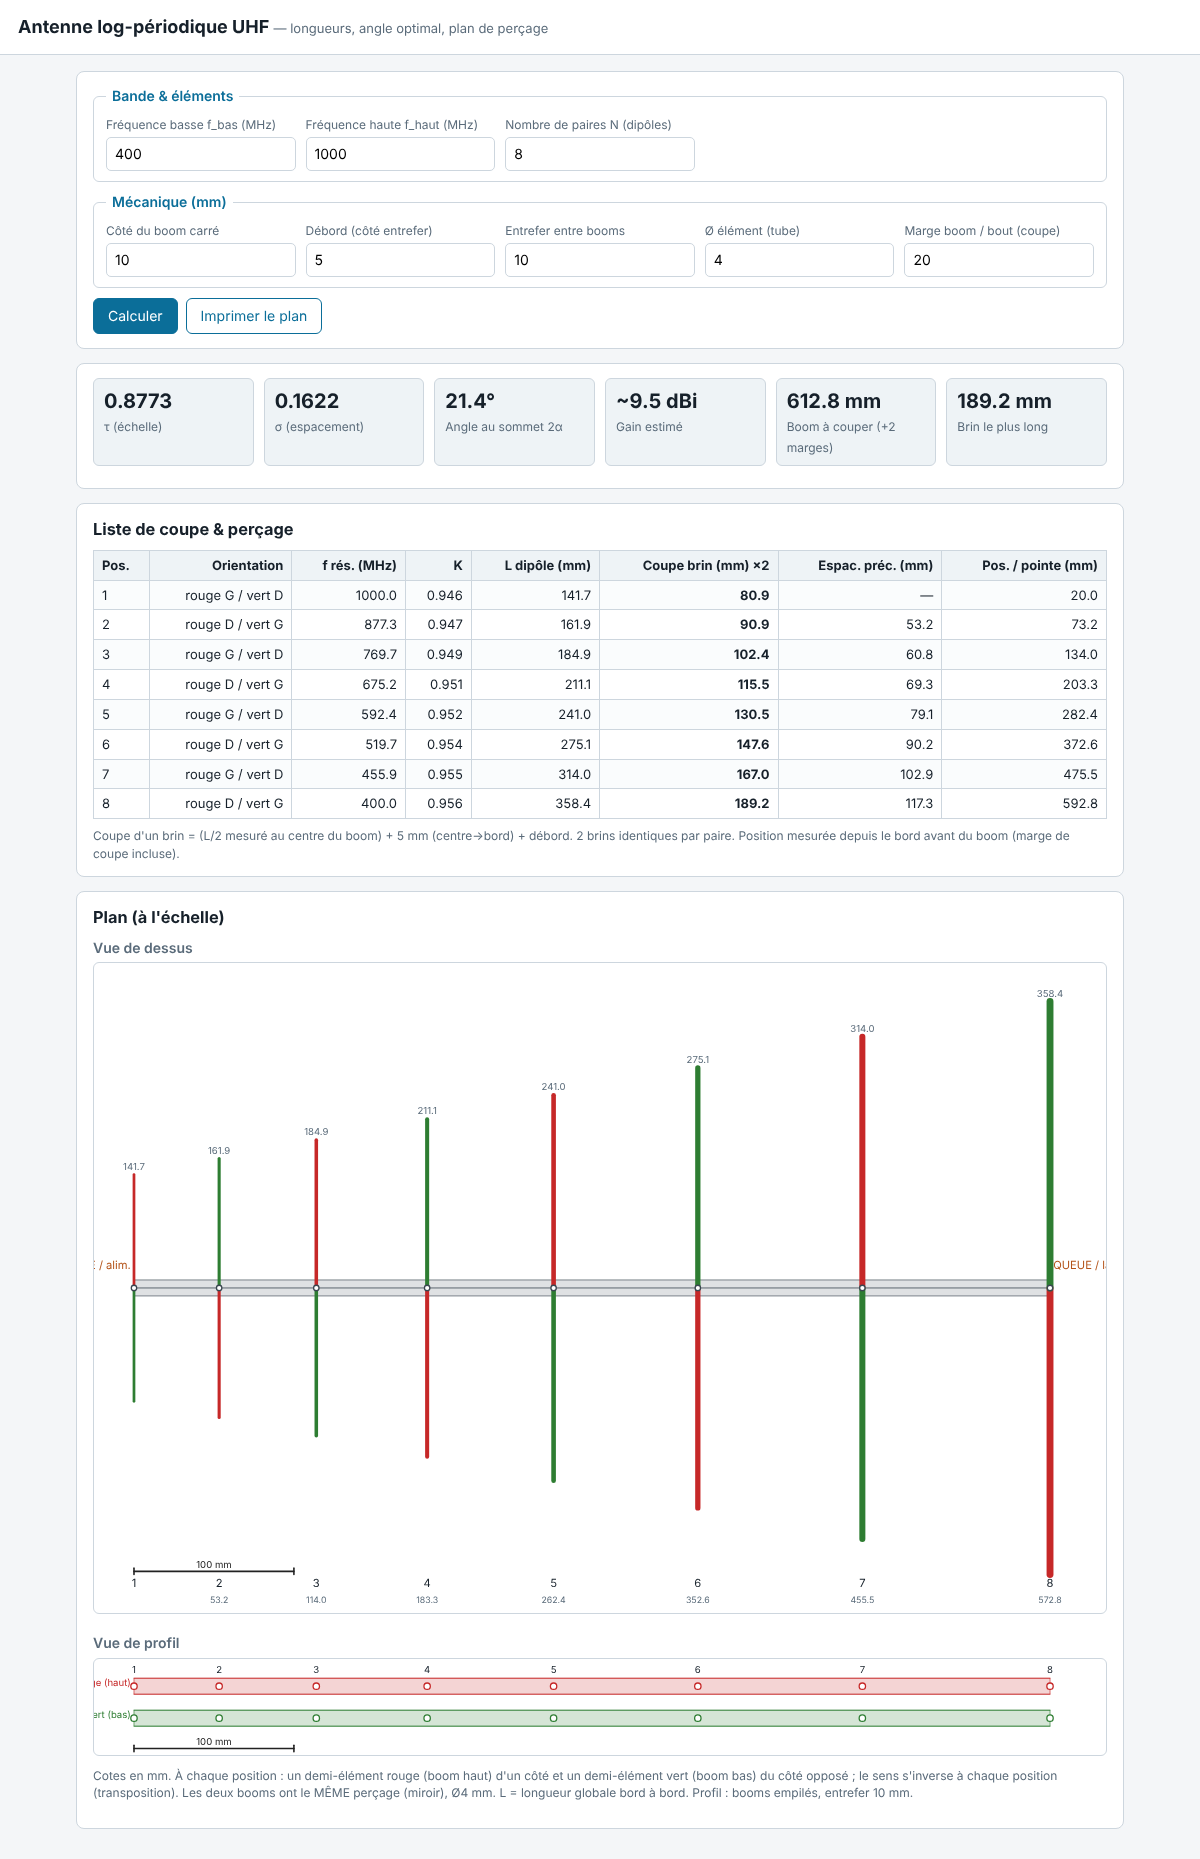
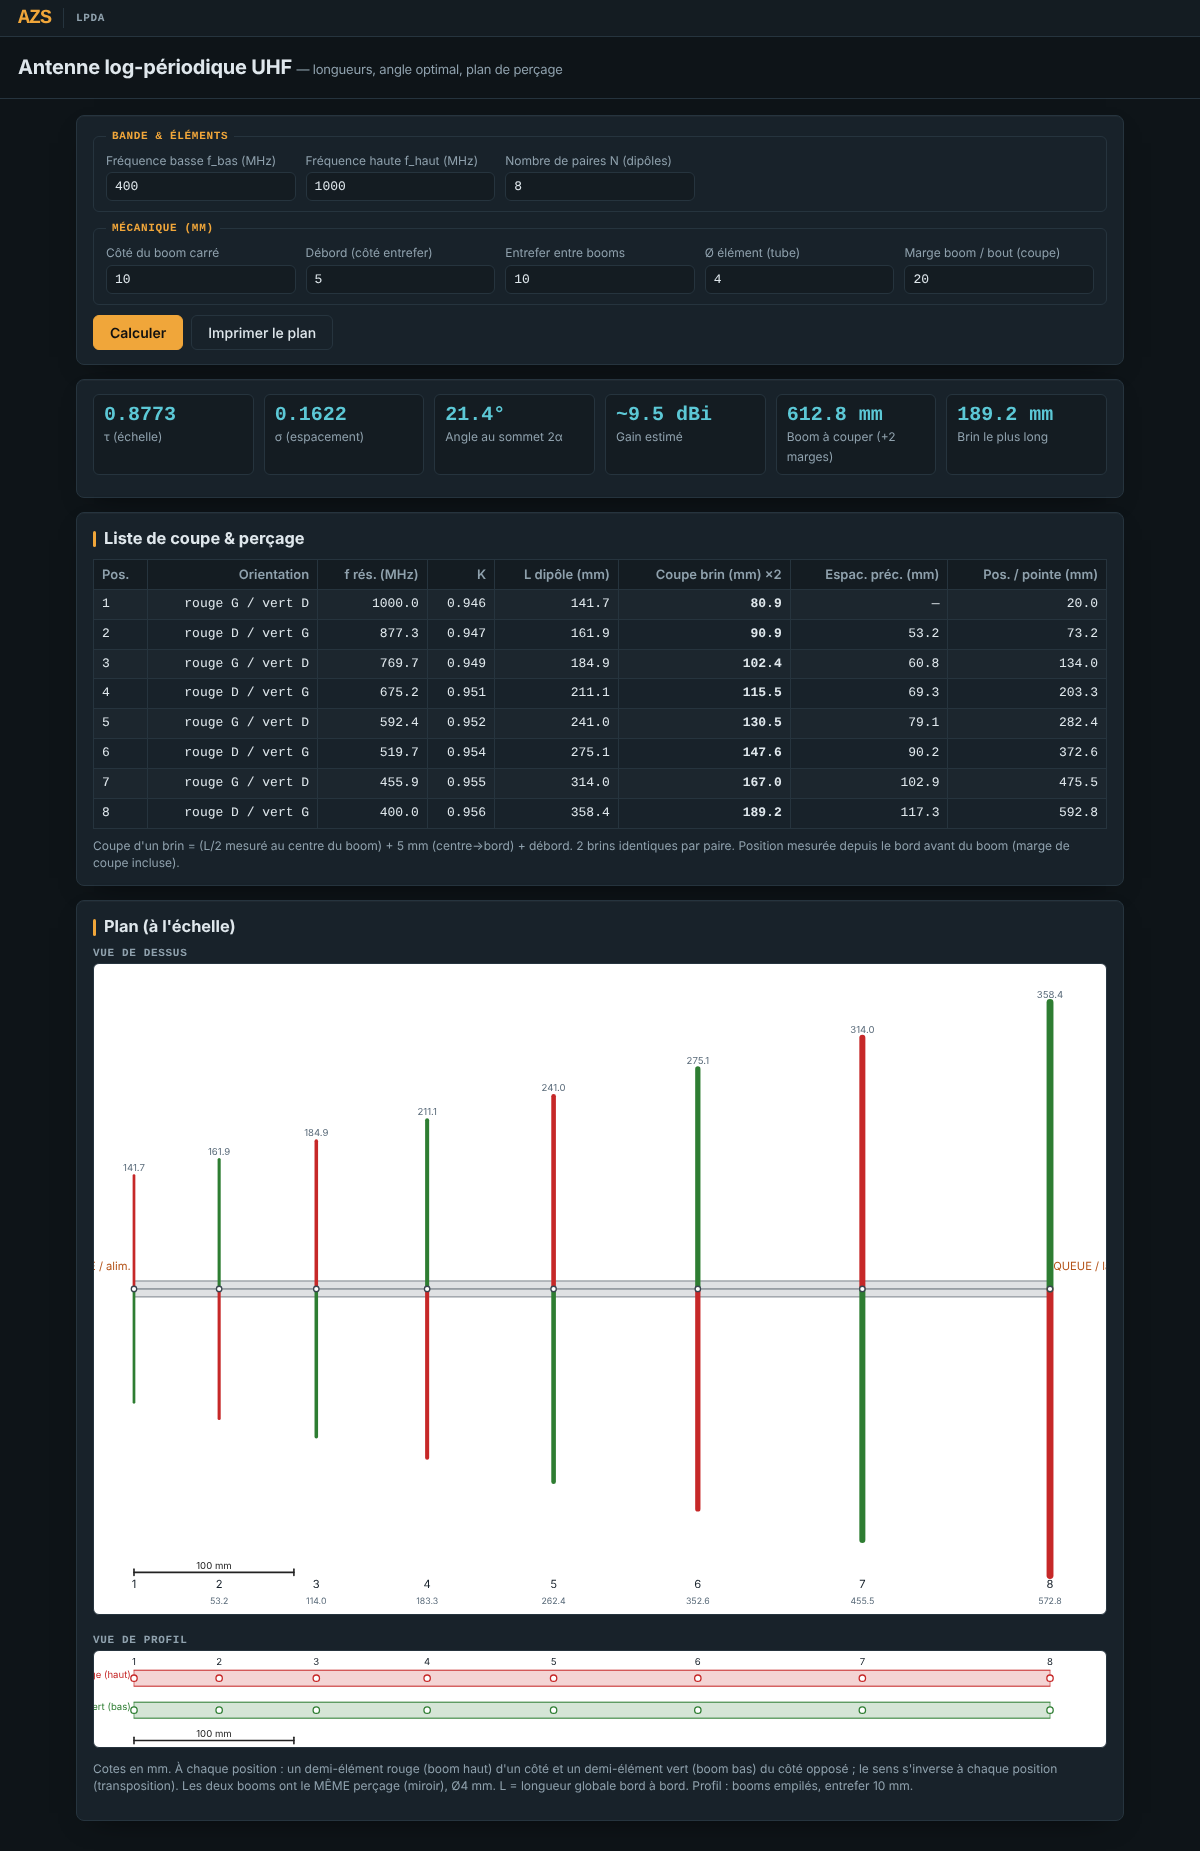
Charte graphique AZS (v1.6)
Thème sombre à l'écran (palette ardoise / ambre / cyan, bandeau AZS avec
lien de retour vers www.azs.fr, chiffres en monospace) ; le plan reste
un dessin technique sur fond blanc avec ses couleurs d'origine et
l'impression garde le rendu clair. README / LISEZMOI et capture à jour.

Claude-Session: https://claude.ai/code/session_018DEShnQbFmf7n67u3FoFwU

diff --git a/lpda_uhf.html b/lpda_uhf.html
@@ -6,9 +6,14 @@
              - angle optimal (gain max, Carrel)
              - positions de percage / plan pret a couper et percer
    Auteur  : Eric Perret (ericperret)
-   Date    : 2026-05-30
-   Version : 1.5  (gain estimé = montée saturante en N, plafond ~11 dBi atteint tôt)
-   Note    : 100% HTML/CSS/JS, aucune dependance, aucun lien externe.
+   Date    : 2026-10-18
+   Version : 1.6
+   Note    : 100% HTML/CSS/JS, aucune dependance, aucune ressource externe
+             (seul lien : retour vers www.azs.fr).
+   Histo.  : 1.5 2026-05-30 gain estimé = montée saturante en N, plafond
+             ~11 dBi atteint tôt ; 1.6 2026-10-18 charte graphique AZS
+             (thème sombre à l'écran, plan conservé sur fond blanc,
+             impression inchangée, bandeau AZS)
    Licence : CC BY 4.0
    ============================================================ -->
 <html lang="fr">
@@ -17,54 +22,72 @@
 <meta name="viewport" content="width=device-width, initial-scale=1">
 <title>LPDA UHF — calcul & plan</title>
 <style>
+  /* ---------- charte AZS (www.azs.fr) ---------- */
   :root{
-    --bg:#f4f6f8; --pan:#ffffff; --ink:#16202a; --mut:#5a6b7a;
-    --line:#cdd6de; --acc:#0b6e99; --acc2:#b4541a; --ok:#1f7a3d; --warn:#a02020;
+    --bg:#0e1418; --pan:#18222a; --pan2:#141c22; --ink:#dfe7ec; --mut:#8fa1ad;
+    --line:#26343e; --acc:#f0a63a; --acc2:#5cc8d6; --ok:#3fb950; --warn:#f85149;
     --boom:#3a4650; --elem:#0b6e99;
     --red:#c62828; --green:#2e7d32;
+    --mono:ui-monospace,"SFMono-Regular",Menlo,Consolas,"Liberation Mono",monospace; --sans:system-ui,-apple-system,"Segoe UI",Roboto,"Helvetica Neue",Arial,sans-serif;
+    color-scheme:dark;
   }
   *{box-sizing:border-box}
-  body{margin:0;background:var(--bg);color:var(--ink);
-    font:14px/1.45 system-ui,-apple-system,Segoe UI,Roboto,Arial,sans-serif}
-  header{padding:14px 18px;border-bottom:1px solid var(--line);background:var(--pan)}
-  h1{margin:0;font-size:18px}
+  body{margin:0;background:var(--bg);color:var(--ink);font:14px/1.45 var(--sans)}
+  .azs-barre{display:flex;align-items:center;gap:12px;padding:8px 18px;background:var(--pan2);border-bottom:1px solid var(--line);
+    font:600 11px/1 var(--mono);letter-spacing:.06em;text-transform:uppercase;color:var(--mut)}
+  .azs-barre .azs{font:800 20px/1 var(--mono);letter-spacing:-1px;text-transform:none;color:var(--acc);text-decoration:none;padding-right:12px;border-right:1px solid var(--line)}
+  .azs-barre .azs:hover{color:#ffcf7a}
+  .azs-barre a.fil{color:var(--mut);text-decoration:none} .azs-barre a.fil:hover{color:var(--acc)}
+  header{padding:16px 18px;border-bottom:1px solid var(--line)}
+  h1{margin:0;font-size:20px;letter-spacing:-.2px}
   h1 small{color:var(--mut);font-weight:400;font-size:13px}
   main{max-width:1080px;margin:0 auto;padding:16px}
   .panel{background:var(--pan);border:1px solid var(--line);border-radius:8px;
-    padding:14px 16px;margin-bottom:14px}
+    padding:14px 16px;margin-bottom:14px;box-shadow:0 1px 0 rgba(255,255,255,.03) inset,0 10px 30px -18px rgba(0,0,0,.8)}
+  .panel h3{display:flex;align-items:center;gap:8px}
+  .panel h3::before{content:"";width:3px;height:1em;border-radius:2px;background:var(--acc);flex:none}
+  .panel h4{font:600 11px var(--mono)!important;letter-spacing:.06em;text-transform:uppercase}
   fieldset{border:1px solid var(--line);border-radius:6px;margin:0 0 10px;padding:10px 12px}
-  legend{color:var(--acc);font-weight:600;padding:0 6px}
+  legend{color:var(--acc);font:600 11px var(--mono);letter-spacing:.06em;text-transform:uppercase;padding:0 6px}
   .grid{display:grid;grid-template-columns:repeat(auto-fill,minmax(180px,1fr));gap:10px}
   label{display:block;font-size:12px;color:var(--mut);margin-bottom:3px}
-  input{width:100%;padding:6px 8px;border:1px solid var(--line);border-radius:5px;
-    font:inherit;background:#fff}
-  input:focus{outline:2px solid var(--acc);border-color:var(--acc)}
+  input{width:100%;padding:6px 8px;border:1px solid var(--line);border-radius:6px;
+    font:13px var(--mono);background:var(--pan2);color:var(--ink)}
+  input:focus{outline:2px solid var(--acc);outline-offset:-1px;border-color:var(--acc)}
   .syn{display:grid;grid-template-columns:repeat(auto-fill,minmax(150px,1fr));gap:10px}
-  .kpi{background:#eef3f6;border:1px solid var(--line);border-radius:6px;padding:8px 10px}
-  .kpi b{display:block;font-size:20px}
+  .kpi{background:var(--pan2);border:1px solid var(--line);border-radius:6px;padding:8px 10px}
+  .kpi b{display:block;font:600 20px var(--mono);color:var(--acc2)}
   .kpi span{color:var(--mut);font-size:12px}
   table{border-collapse:collapse;width:100%;font-size:13px}
   th,td{border:1px solid var(--line);padding:5px 8px;text-align:right}
-  th{background:#eef3f6;text-align:right}
+  td{font-family:var(--mono)}
+  th{background:var(--pan2);color:var(--mut);font-weight:600;text-align:right}
   th:first-child,td:first-child{text-align:left}
-  tbody tr:nth-child(odd){background:#fafcfd}
+  tbody tr:nth-child(odd){background:rgba(255,255,255,.02)}
   .note{color:var(--mut);font-size:12px;margin:8px 0 0}
   .warn{color:var(--warn);font-weight:600}
-  button{font:inherit;padding:7px 14px;border:1px solid var(--acc);background:var(--acc);
-    color:#fff;border-radius:6px;cursor:pointer}
-  button.sec{background:#fff;color:var(--acc)}
+  button{font:600 14px var(--sans);padding:8px 16px;border:1px solid var(--acc);background:var(--acc);
+    color:#111;border-radius:6px;cursor:pointer;transition:filter .15s,border-color .15s,color .15s}
+  button:hover{filter:brightness(1.1)}
+  button.sec{background:transparent;color:var(--ink);border-color:var(--line);font-weight:500}
+  button.sec:hover{filter:none;border-color:var(--acc)}
   .bar{display:flex;gap:8px;align-items:center;flex-wrap:wrap}
-  svg{width:100%;height:auto;background:#fff;border:1px solid var(--line);border-radius:6px}
+  /* le plan reste un dessin technique sur fond blanc, couleurs d'origine */
+  svg{width:100%;height:auto;background:#fff;border:1px solid var(--line);border-radius:6px;
+    --ink:#16202a;--mut:#5a6b7a;--boom:#3a4650;--acc2:#b4541a;--red:#c62828;--green:#2e7d32}
   .legend-svg{font-size:12px;color:var(--mut);margin-top:6px}
   @media print{
-    header,.controls,.bar{display:none}
+    :root{--bg:#fff;--pan:#fff;--pan2:#eef3f6;--ink:#16202a;--mut:#5a6b7a;--line:#cdd6de;--acc2:#b4541a;color-scheme:light}
+    .azs-barre,header,.controls,.bar{display:none}
     body{background:#fff}
-    .panel{border:none;page-break-inside:avoid}
+    .panel{border:none;box-shadow:none;page-break-inside:avoid}
+    .kpi b{color:#16202a}
     main{max-width:none;padding:0}
   }
 </style>
 </head>
 <body>
+<nav class="azs-barre"><a class="azs" href="https://www.azs.fr/" title="www.azs.fr">AZS</a><a class="fil" href="https://github.com/ericperret/lpda">lpda</a></nav>
 <header>
   <h1>Antenne log-périodique UHF <small>— longueurs, angle optimal, plan de perçage</small></h1>
 </header>

diff --git a/README.md b/README.md
@@ -2,8 +2,8 @@
   Name     : README.md
   Purpose  : Overview of the UHF log-periodic antenna calculator (GitHub repository)
   Author   : Eric Perret (ericperret)
-  Date     : 2026-10-17
-  Version  : 1.5
+  Date     : 2026-10-18
+  Version  : 1.6
   License  : CC BY 4.0
 -->
 
@@ -13,7 +13,7 @@
 
 ▶ **[Launch the calculator](https://ericperret.github.io/lpda/lpda_uhf.html)** — results update on every input.
 
-![UHF LPDA calculator v1.5: summary, cut list, top view and side view](screenshot.png)
+![UHF LPDA calculator v1.6: summary, cut list, top view and side view](screenshot.png)
 
 A standalone calculator (one single HTML file) for a log-periodic antenna built on two square booms, for the UHF band.
 From the wanted band and the number of dipoles, it gives the cut lengths, the optimum angle, the drilling positions and a scale plan ready to print.
@@ -57,6 +57,7 @@ Preliminary design tool. The gain is an estimate; the 50 Ω matching (stub at th
 |---|---|
 | 1.1 | Automatic K factor from L/Ø; top and side views, red / green booms |
 | 1.5 | Gain estimated by a saturating rise with N; boom cutting margin; cut measured from the boom centre |
+| 1.6 | AZS visual identity (dark theme on screen, AZS band linking back to www.azs.fr); the plan stays on a white sheet and printing is unchanged |
 
 ## License
 
